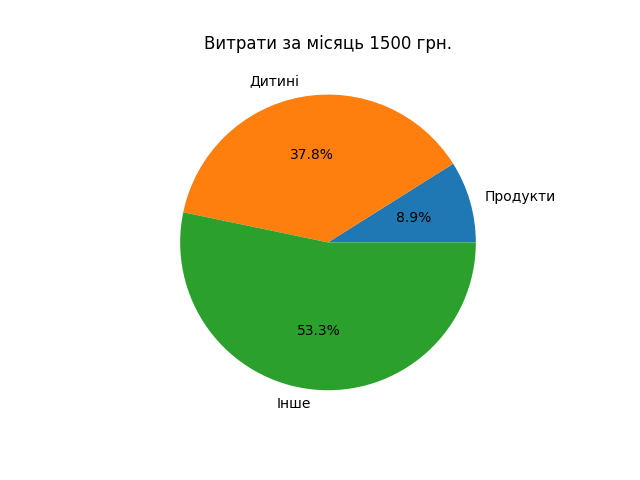
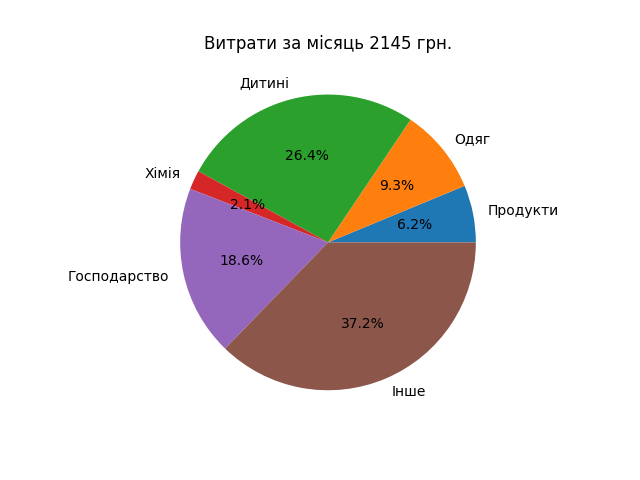
add category

diff --git a/bot.py b/bot.py
@@ -13,7 +13,7 @@ from bd.bdnew import botBDnew
 from loguru import logger
 from aiogram.utils.executor import start_webhook
 
-TEST_MODE = False
+TEST_MODE = True
 
 ##------------------Блок ініціалізації-----------------##
 if TEST_MODE:
@@ -59,7 +59,7 @@ async def send_welcome(message: types.Message):
     await message.reply("Вітаю! Щоб розпочати натисніть кнопку внизу!", reply_markup=markup)
 
 ##--------------------------видатки-----------------------##
-@dp.message_handler(filters.Text(equals=["Продукти", "Одяг", "Подарунки", "Красота", "Дитині", "Аптека", "Інше"]), state=None)
+@dp.message_handler(filters.Text(equals=["Продукти", "Одяг", "Подарунки", "Красота", "Дитині", "Аптека", "Хімія", "Господарство", "Інше"]), state=None)
 async def credet(message: types.Message, state: FSMContext):
     await FSMzapCredet.cash.set()
     await bot.send_chat_action(chat_id=message.from_user.id, action="typing")
@@ -75,7 +75,7 @@ async def getcash(message: types.Message, state: FSMContext):
         async with state.proxy() as data:
             data['viruhka'] = message.text
             logger.debug(f"Витрати - {message.text}")
-            if data['category'] in ["Продукти", "Одяг", "Подарунки", "Красота", "Дитині", "Аптека"]:
+            if data['category'] in ["Продукти", "Одяг", "Подарунки", "Красота", "Дитині", "Аптека", "Хімія", "Господарство"]:
                 botbdnew.recCredet(data['category'], data['viruhka'], data['category'])
                 await bot.send_message(conf.ADMIN_ULIA, f"Витрати за {data['category']} {data['viruhka']} грн. внесено!",
                                        reply_markup=markup)

diff --git a/keyboards/client_keyboard.py b/keyboards/client_keyboard.py
@@ -2,4 +2,6 @@ from aiogram.types import KeyboardButton, ReplyKeyboardMarkup
 
 markup = ReplyKeyboardMarkup(resize_keyboard=True, row_width=4)
 # красота і дитині
-markup.add('Продукти', 'Одяг', 'Подарунки').add('Красота', 'Дитині', 'Аптека').add('Інше').add('Статистика за місяць 📊').add('Минулий місяць')
+markup.add('Продукти', 'Одяг', 'Подарунки').add(
+    'Красота', 'Дитині', 'Аптека').add('Хімія', 'Господарство', 'Інше').add(
+    'Статистика за місяць 📊').add('Минулий місяць')

diff --git a/bd/bdnew.py b/bd/bdnew.py
@@ -41,7 +41,7 @@ class botBDnew():
         cost = []
         labels = []
         if count > 0:
-            for categ in ["Продукти", "Одяг", "Подарунки", "Красота", "Дитині", "Аптека", "Інше"]:
+            for categ in ["Продукти", "Одяг", "Подарунки", "Красота", "Дитині", "Аптека", "Хімія", "Господарство", "Інше"]:
                 monthredet = 0
                 for i in Credet.select().where((Credet.date.year == now.year) & (
                         Credet.date.month == now.month) & (Credet.category == categ)):
